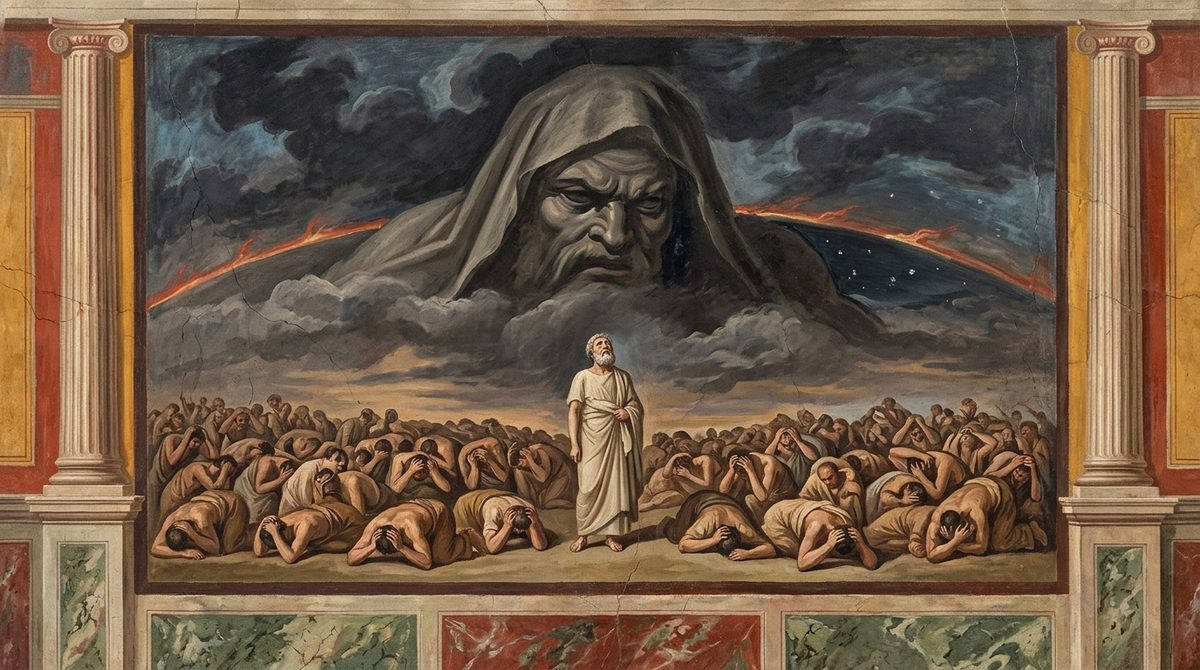
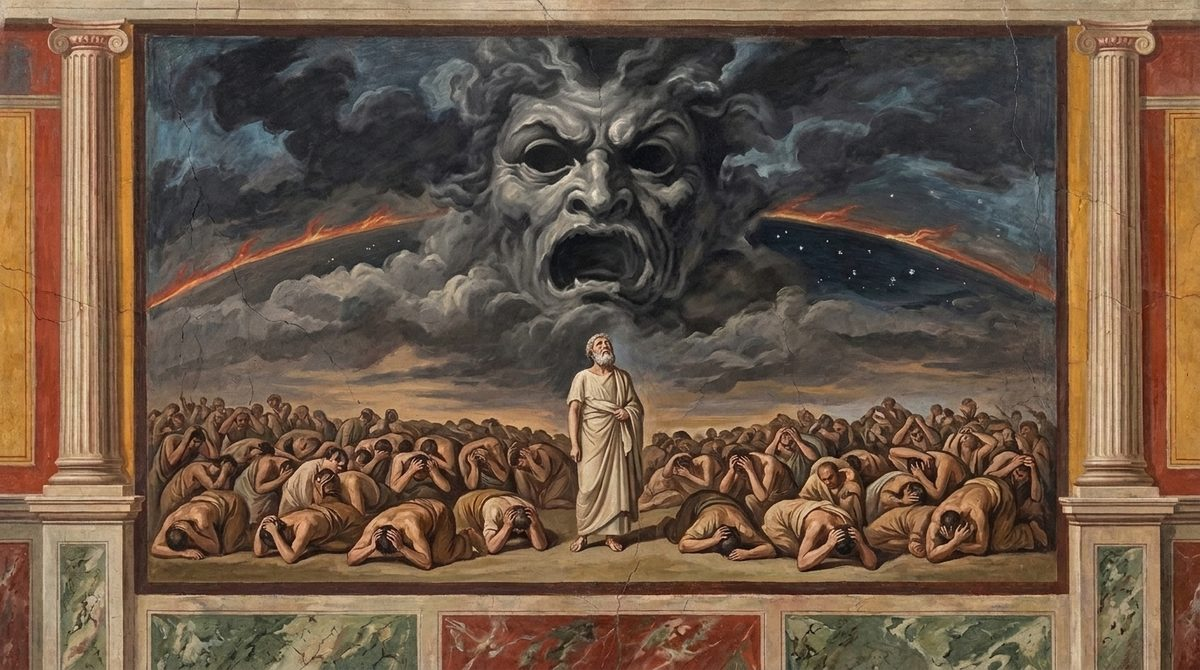
Illustrations: Gemini's revised cow, Religio, and a square Venus and Mars
- The cow searching for her calf is now a cow (it was drawn as a bull),
  and the temple frieze has no pseudo-letters.
- Religio is a shapeless storm-mask instead of a hooded, bearded old man.
- cover_medallion_source.jpg: Venus and Mars repainted square at 2048 px,
  now the cover medallion (about 800 ppi on the hardcover, was ~225).
- tools/render_covers.py renders docs/cover.jpg and docs/social.jpg from
  the SVGs; both re-rendered.

Changed region(s): [[0.2467, 0.0597, 0.74, 0.5373], [0.3083, 0.7761, 0.3392, 0.806]]

diff --git a/tools/render_covers.py b/tools/render_covers.py
@@ -1,0 +1,36 @@
+"""Render docs/cover.jpg (1600x2400) and docs/social.jpg (1200x630) from
+illustrations/cover.svg and social.svg with headless Chromium (Playwright).
+Run after replacing illustrations/cover_medallion.jpg; then rebuild the
+print wrap with python tools/build_wrap.py."""
+from pathlib import Path
+from PIL import Image
+from playwright.sync_api import sync_playwright
+
+ROOT = Path(__file__).resolve().parent.parent
+
+def render():
+    with sync_playwright() as p:
+        browser = p.chromium.launch()
+
+        # Render cover.jpg (1600x2400)
+        page = browser.new_page(viewport={"width": 800, "height": 1200}, device_scale_factor=2)
+        cover_svg = (ROOT / "illustrations" / "cover.svg").resolve().as_uri()
+        page.goto(cover_svg)
+        page.wait_for_timeout(1000)
+        out_cover = ROOT / "docs" / "cover.jpg"
+        page.screenshot(path=str(out_cover), type="jpeg", quality=88)
+        print("Rendered docs/cover.jpg:", Image.open(out_cover).size)
+
+        # Render social.jpg (1200x630)
+        page2 = browser.new_page(viewport={"width": 1200, "height": 630}, device_scale_factor=1)
+        social_svg = (ROOT / "illustrations" / "social.svg").resolve().as_uri()
+        page2.goto(social_svg)
+        page2.wait_for_timeout(1000)
+        out_social = ROOT / "docs" / "social.jpg"
+        page2.screenshot(path=str(out_social), type="jpeg", quality=88)
+        print("Rendered docs/social.jpg:", Image.open(out_social).size)
+
+        browser.close()
+
+if __name__ == "__main__":
+    render()
